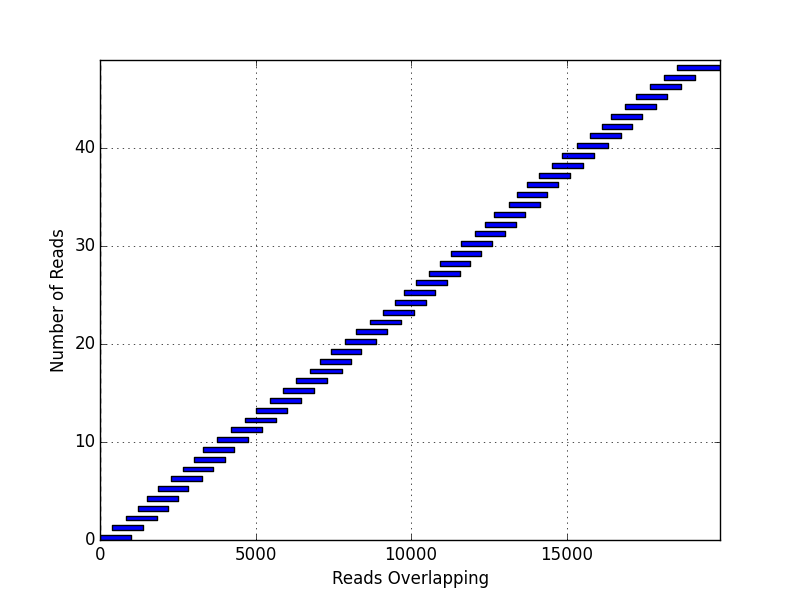
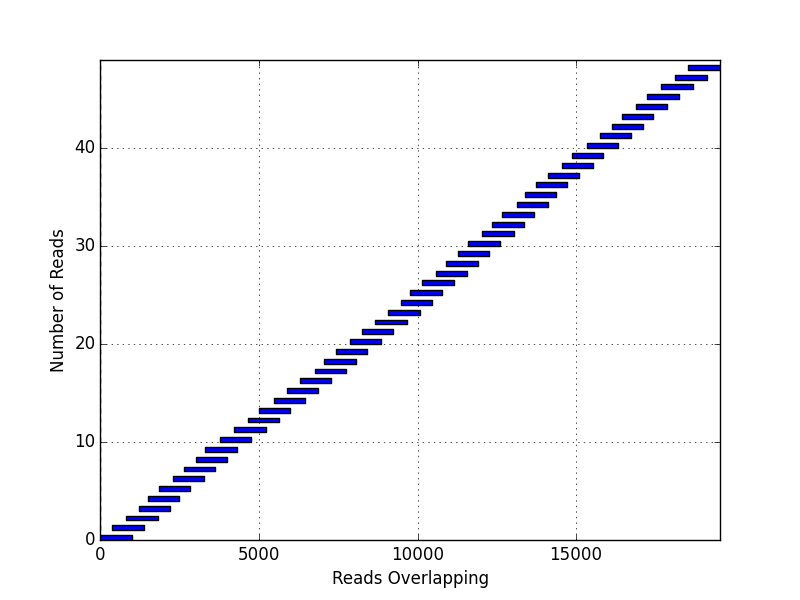
fixing error in the graph

diff --git a/functions.py b/functions.py
@@ -74,10 +74,11 @@ def for_graph(read_order_ok,dict_overlaps, listofreads,concatenated):
         overlaptot.append(overlap)
         lengthreadtot.append([len(b.seq) for b in overlapseq])
         indexcoverage = ([[] for x in range(len(lengthreadtot))])
-        begin = 0 
+        begin = 0
         for i in range(len(lengthreadtot)):
             indexcoverage[i].append(begin)
             indexcoverage[i].append(begin+lengthreadtot[i][0])
             begin += (lengthreadtot[i][0]-overlaptot[i])
-        indexcoverage[-1][1] = len(concatenated)
+        indexcoverage[-1].append(begin)
+        indexcoverage[-1].append(len(concatenated))
     return indexcoverage

diff --git a/readme.md b/readme.md
@@ -9,7 +9,7 @@ To build the contig:
 python parser.py -i data/coding_challenge_data_set.txt
 To visualize the results and create a png:
 python graph.py -i graph.txt
-You must run parser.py BEFORE graph.py. 
+You must run parser.py BEFORE graph.py, and all the output will be saved in a folder called "results"
 
 ####There are 3 scripts 
 - functions.py: containing all the functions needed
@@ -36,14 +36,10 @@ You must run parser.py BEFORE graph.py.
  Does this recursively, until the entire sequence of the last read is added.
  8. for_graph(read_order_ok,dict_overlaps, listofreads,concatenated): This will use matplotlib to draw a line with the index of each reads mapped on the contigs. It outputs a png graph.
 
+####Comments
+This script is quick but rely on perfect matches between the sequences. I usually use other software (velvet for example) which will allow to assembly much bigger dataset with smaller size reads (the output if the hiseq I have been working with are ore abour 250 bp). 
 
-
-
-
-
-
-
-####As a reminder: Challenge:
+####Challenge:
 
 The input to the problem is at most 50 DNA sequences (i.e, the character set is limited to T/C/G/A) whose length does not exceed 1000 characters. The sequences are given in FASTA format (https://en.wikipedia.org/wiki/FASTA_format). These sequences are all different fragments of one chromosome.
 
